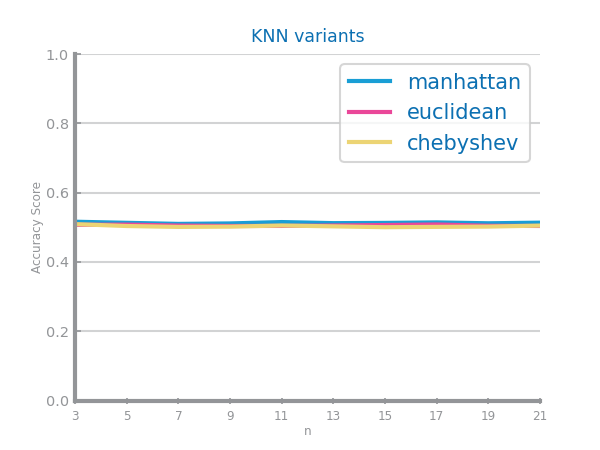
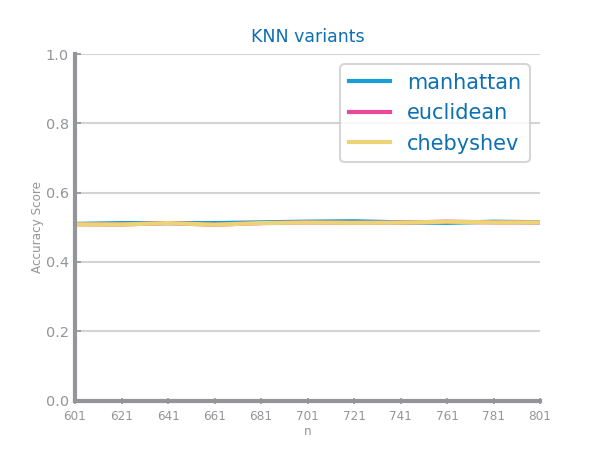
climate final version with large K exploration

diff --git a/climate/src/evaluation/knn_classifier.py b/climate/src/evaluation/knn_classifier.py
@@ -13,22 +13,27 @@ class Knn_classifier:
         self.train_y = self.train_data.pop('class').values
         self.test_data = test_data
         self.test_y = self.test_data.pop('class').values
-        self.neighbours = [3,5,7,9,11,13,15,17,19,21]
+        self.neighbours = [601, 621, 641, 661, 681, 701, 721, 741, 761, 781, 801]
+        self.large_neighbours = [21,61,91, 301, 501, 601, 701, 801]
         self.dist = ['manhattan', 'euclidean', 'chebyshev']
 
-    def explore_best_k_value(self):
+    def explore_best_k_value(self, method="def"):
         print(self.train_data)
         print(self.test_data)
         values = {}
         best = (0, '')
         last_best = 0
+        if method == "def":
+            K = self.neighbours
+        else:
+            K = self.large_neighbours
         for dist in self.dist:
             print(f"Dist: {dist}")
             y_test_values = []
             y_train_values = []
             y_test_values_f1 = []
             y_train_values_f1 = []
-            for k in self.neighbours:
+            for k in K:
                 print(f"K: {k}")
                 knn = KNeighborsClassifier(n_neighbors=k, metric=dist)
                 knn.fit(self.train_data, self.train_y)
@@ -42,13 +47,16 @@ class Knn_classifier:
                     best = (k, dist)
                     last_best = y_test_values[-1]
             values[dist] = y_test_values
-            self.plot_overfitting_study(self.neighbours, y_train_values, y_test_values, f'KNN_{dist}','K', dist)
-            self.plot_overfitting_study(self.neighbours, y_train_values_f1, y_test_values_f1, f'KNN_{dist}_F1','K', dist)
+            self.plot_overfitting_study(K, y_train_values, y_test_values, f'KNN_{dist}_{k}','K', dist)
+            self.plot_overfitting_study(K, y_train_values_f1, y_test_values_f1, f'KNN_{dist}_{k}_F1','K', dist)
 
         print(values)
         figure()
-        multiple_line_chart(self.neighbours, values, title='KNN variants', xlabel='n', ylabel="Accuracy Score", percentage=True)
-        savefig(f'climate/records/evaluation/knn_k_distance_exploration.png')
+        multiple_line_chart(K, values, title='KNN variants', xlabel='n', ylabel="Accuracy Score", percentage=True)
+        if method == "def":
+            savefig(f'climate/records/evaluation/knn_k_distance_exploration.png')
+        else:
+            savefig(f'climate/records/evaluation/knn_k_distance_exploration_{method}.png')
         print('Best results with %d neighbors and %s'%(best[0], best[1]))
         return best[0], best[1]
 
